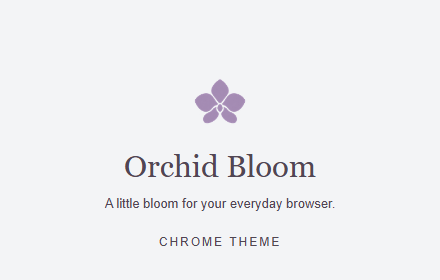
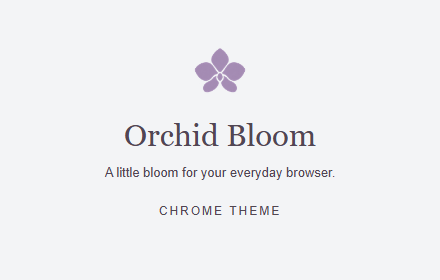
style: 440x280 promo 内容改为垂直居中并重新生成素材

Changed region(s): [[0.2364, 0.1714, 0.7682, 0.6571], [0.2364, 0.6857, 0.7682, 0.7714], [0.3545, 0.8286, 0.65, 0.8857]]

diff --git a/store-assets/references/promo-1400x560.html b/store-assets/references/promo-1400x560.html
@@ -78,7 +78,7 @@
 .sunpromo{position:relative;overflow:hidden;background:#F3F4F6;color:#514653}
 .sunpromo:before{content:'';position:absolute;width:480px;height:480px;border-radius:50%;background:#F0E1E8;right:-110px;bottom:-210px}
 .sunpromo .copy{position:relative;z-index:2}.sunpromo h1{font-family:Georgia,serif;font-weight:normal}
-.sunpromo.small{width:440px;height:280px;padding:30px;background:#F3F4F6;text-align:center}.sunpromo.small:before{display:none}.sunpromo.small img{width:72px;height:72px;display:block;margin:0 auto 12px}.sunpromo.small h1{font-size:31px;margin:8px 0 12px}.sunpromo.small p{font-size:13px;margin:0 0 24px}
+.sunpromo.small{width:440px;height:280px;padding:0;background:#F3F4F6;text-align:center}.sunpromo.small:before{display:none}.sunpromo.small{display:flex;align-items:center;justify-content:center}.sunpromo.small .copy{transform:translateY(-14px)}.sunpromo.small img{width:72px;height:72px;display:block;margin:0 auto 12px}.sunpromo.small h1{font-size:31px;margin:8px 0 12px}.sunpromo.small p{font-size:13px;margin:0 0 24px}
 .sunpromo.wide{width:1400px;height:560px}.sunpromo.wide .copy{position:absolute;left:65px;top:85px;width:400px}.sunpromo.wide h1{font-size:60px;line-height:1.08;margin:25px 0}.sunpromo.wide p{font-size:20px;line-height:1.6}
 .sunpromo.wide:before{width:680px;height:430px;right:-70px;bottom:-190px;border-radius:60% 40% 65% 35%;transform:rotate(-20deg)}
 .sunpromo .preview{position:absolute;left:550px;top:80px;transform:scale(.60);transform-origin:top left;border-radius:16px;overflow:hidden;border:1px solid #B7A4C2;box-shadow:0 12px 40px #51465325}

diff --git a/store-assets/references/promo-440x280.html b/store-assets/references/promo-440x280.html
@@ -78,7 +78,7 @@
 .sunpromo{position:relative;overflow:hidden;background:#F3F4F6;color:#514653}
 .sunpromo:before{content:'';position:absolute;width:480px;height:480px;border-radius:50%;background:#F0E1E8;right:-110px;bottom:-210px}
 .sunpromo .copy{position:relative;z-index:2}.sunpromo h1{font-family:Georgia,serif;font-weight:normal}
-.sunpromo.small{width:440px;height:280px;padding:30px;background:#F3F4F6;text-align:center}.sunpromo.small:before{display:none}.sunpromo.small img{width:72px;height:72px;display:block;margin:0 auto 12px}.sunpromo.small h1{font-size:31px;margin:8px 0 12px}.sunpromo.small p{font-size:13px;margin:0 0 24px}
+.sunpromo.small{width:440px;height:280px;padding:0;background:#F3F4F6;text-align:center}.sunpromo.small:before{display:none}.sunpromo.small{display:flex;align-items:center;justify-content:center}.sunpromo.small .copy{transform:translateY(-14px)}.sunpromo.small img{width:72px;height:72px;display:block;margin:0 auto 12px}.sunpromo.small h1{font-size:31px;margin:8px 0 12px}.sunpromo.small p{font-size:13px;margin:0 0 24px}
 .sunpromo.wide{width:1400px;height:560px}.sunpromo.wide .copy{position:absolute;left:65px;top:85px;width:400px}.sunpromo.wide h1{font-size:60px;line-height:1.08;margin:25px 0}.sunpromo.wide p{font-size:20px;line-height:1.6}
 .sunpromo.wide:before{width:680px;height:430px;right:-70px;bottom:-190px;border-radius:60% 40% 65% 35%;transform:rotate(-20deg)}
 .sunpromo .preview{position:absolute;left:550px;top:80px;transform:scale(.60);transform-origin:top left;border-radius:16px;overflow:hidden;border:1px solid #B7A4C2;box-shadow:0 12px 40px #51465325}

diff --git a/store-assets/references/screenshot-1-browser.html b/store-assets/references/screenshot-1-browser.html
@@ -78,7 +78,7 @@
 .sunpromo{position:relative;overflow:hidden;background:#F3F4F6;color:#514653}
 .sunpromo:before{content:'';position:absolute;width:480px;height:480px;border-radius:50%;background:#F0E1E8;right:-110px;bottom:-210px}
 .sunpromo .copy{position:relative;z-index:2}.sunpromo h1{font-family:Georgia,serif;font-weight:normal}
-.sunpromo.small{width:440px;height:280px;padding:30px;background:#F3F4F6;text-align:center}.sunpromo.small:before{display:none}.sunpromo.small img{width:72px;height:72px;display:block;margin:0 auto 12px}.sunpromo.small h1{font-size:31px;margin:8px 0 12px}.sunpromo.small p{font-size:13px;margin:0 0 24px}
+.sunpromo.small{width:440px;height:280px;padding:0;background:#F3F4F6;text-align:center}.sunpromo.small:before{display:none}.sunpromo.small{display:flex;align-items:center;justify-content:center}.sunpromo.small .copy{transform:translateY(-14px)}.sunpromo.small img{width:72px;height:72px;display:block;margin:0 auto 12px}.sunpromo.small h1{font-size:31px;margin:8px 0 12px}.sunpromo.small p{font-size:13px;margin:0 0 24px}
 .sunpromo.wide{width:1400px;height:560px}.sunpromo.wide .copy{position:absolute;left:65px;top:85px;width:400px}.sunpromo.wide h1{font-size:60px;line-height:1.08;margin:25px 0}.sunpromo.wide p{font-size:20px;line-height:1.6}
 .sunpromo.wide:before{width:680px;height:430px;right:-70px;bottom:-190px;border-radius:60% 40% 65% 35%;transform:rotate(-20deg)}
 .sunpromo .preview{position:absolute;left:550px;top:80px;transform:scale(.60);transform-origin:top left;border-radius:16px;overflow:hidden;border:1px solid #B7A4C2;box-shadow:0 12px 40px #51465325}

diff --git a/store-assets/references/screenshot-2-introduction.html b/store-assets/references/screenshot-2-introduction.html
@@ -78,7 +78,7 @@
 .sunpromo{position:relative;overflow:hidden;background:#F3F4F6;color:#514653}
 .sunpromo:before{content:'';position:absolute;width:480px;height:480px;border-radius:50%;background:#F0E1E8;right:-110px;bottom:-210px}
 .sunpromo .copy{position:relative;z-index:2}.sunpromo h1{font-family:Georgia,serif;font-weight:normal}
-.sunpromo.small{width:440px;height:280px;padding:30px;background:#F3F4F6;text-align:center}.sunpromo.small:before{display:none}.sunpromo.small img{width:72px;height:72px;display:block;margin:0 auto 12px}.sunpromo.small h1{font-size:31px;margin:8px 0 12px}.sunpromo.small p{font-size:13px;margin:0 0 24px}
+.sunpromo.small{width:440px;height:280px;padding:0;background:#F3F4F6;text-align:center}.sunpromo.small:before{display:none}.sunpromo.small{display:flex;align-items:center;justify-content:center}.sunpromo.small .copy{transform:translateY(-14px)}.sunpromo.small img{width:72px;height:72px;display:block;margin:0 auto 12px}.sunpromo.small h1{font-size:31px;margin:8px 0 12px}.sunpromo.small p{font-size:13px;margin:0 0 24px}
 .sunpromo.wide{width:1400px;height:560px}.sunpromo.wide .copy{position:absolute;left:65px;top:85px;width:400px}.sunpromo.wide h1{font-size:60px;line-height:1.08;margin:25px 0}.sunpromo.wide p{font-size:20px;line-height:1.6}
 .sunpromo.wide:before{width:680px;height:430px;right:-70px;bottom:-190px;border-radius:60% 40% 65% 35%;transform:rotate(-20deg)}
 .sunpromo .preview{position:absolute;left:550px;top:80px;transform:scale(.60);transform-origin:top left;border-radius:16px;overflow:hidden;border:1px solid #B7A4C2;box-shadow:0 12px 40px #51465325}

diff --git a/scripts/generate-references.py b/scripts/generate-references.py
@@ -115,7 +115,7 @@ css += """
 .sunpromo{position:relative;overflow:hidden;background:#F3F4F6;color:#514653}
 .sunpromo:before{content:'';position:absolute;width:480px;height:480px;border-radius:50%;background:#F0E1E8;right:-110px;bottom:-210px}
 .sunpromo .copy{position:relative;z-index:2}.sunpromo h1{font-family:Georgia,serif;font-weight:normal}
-.sunpromo.small{width:440px;height:280px;padding:30px;background:#F3F4F6;text-align:center}.sunpromo.small:before{display:none}.sunpromo.small img{width:72px;height:72px;display:block;margin:0 auto 12px}.sunpromo.small h1{font-size:31px;margin:8px 0 12px}.sunpromo.small p{font-size:13px;margin:0 0 24px}
+.sunpromo.small{width:440px;height:280px;padding:0;background:#F3F4F6;text-align:center}.sunpromo.small:before{display:none}.sunpromo.small{display:flex;align-items:center;justify-content:center}.sunpromo.small .copy{transform:translateY(-14px)}.sunpromo.small img{width:72px;height:72px;display:block;margin:0 auto 12px}.sunpromo.small h1{font-size:31px;margin:8px 0 12px}.sunpromo.small p{font-size:13px;margin:0 0 24px}
 .sunpromo.wide{width:1400px;height:560px}.sunpromo.wide .copy{position:absolute;left:65px;top:85px;width:400px}.sunpromo.wide h1{font-size:60px;line-height:1.08;margin:25px 0}.sunpromo.wide p{font-size:20px;line-height:1.6}
 .sunpromo.wide:before{width:680px;height:430px;right:-70px;bottom:-190px;border-radius:60% 40% 65% 35%;transform:rotate(-20deg)}
 .sunpromo .preview{position:absolute;left:550px;top:80px;transform:scale(.60);transform-origin:top left;border-radius:16px;overflow:hidden;border:1px solid #B7A4C2;box-shadow:0 12px 40px #51465325}
